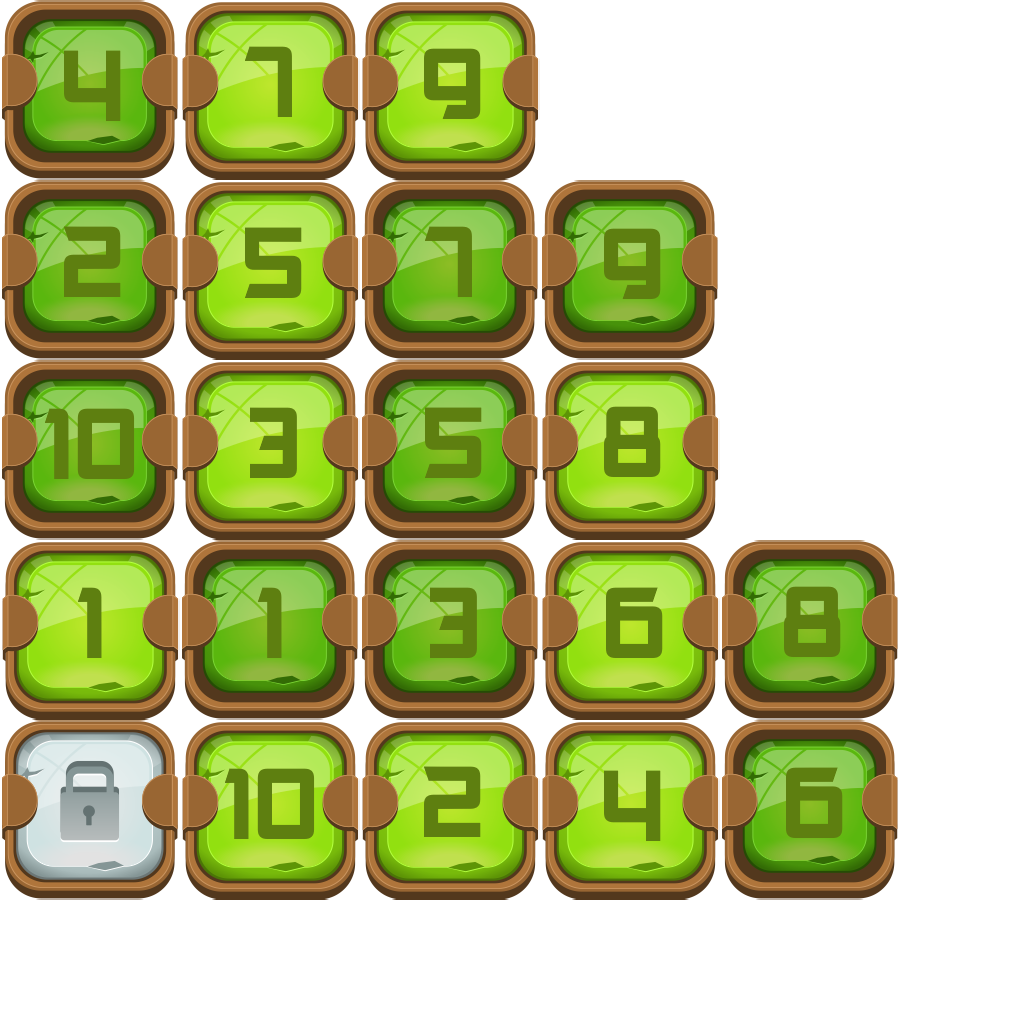
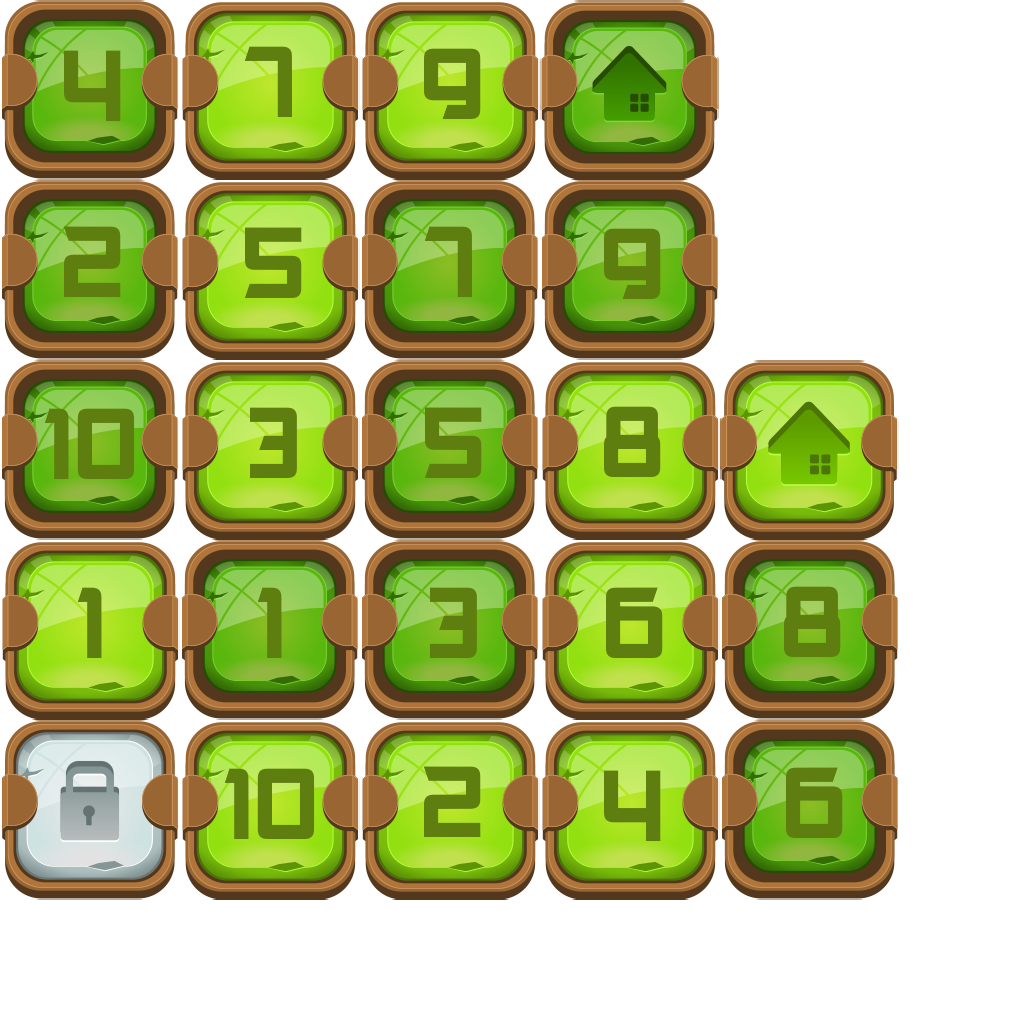
beta version of levels options

Changed region(s): [[0.5, 0.0, 0.7188, 0.1875], [0.6875, 0.3438, 0.875, 0.5312]]

diff --git a/BlockBoy/core/src/com/lpoo/blockboy/gui/LevelScreen.java b/BlockBoy/core/src/com/lpoo/blockboy/gui/LevelScreen.java
@@ -17,7 +17,7 @@ import com.badlogic.gdx.utils.viewport.Viewport;
 import com.lpoo.blockboy.BlockBoy;
 
 /**
- * Created by Manuel Gomes on 12/05/2016.
+ * Created by José Oliveira on 12/05/2016.
  */
 public class LevelScreen implements Screen {
 
@@ -41,7 +41,7 @@ public class LevelScreen implements Screen {
     private ImageButton lvl8Btn;
     private ImageButton lvl9Btn;
     private ImageButton lvl10Btn;
-    private ImageButton lvlLockedBtn;
+    private ImageButton homeBtn;
 
     private Texture menu_bg;
 
@@ -53,7 +53,7 @@ public class LevelScreen implements Screen {
         this.viewport = new FitViewport(BlockBoy.VWIDTH, BlockBoy.VHEIGHT, new OrthographicCamera());
         initStage(game.batch);
 
-        menu_bg = new Texture("menu/menu_bg.png");
+        menu_bg = new Texture("menu/levels_bg.png");
     }
 
     public void checkInput(float delta){
@@ -132,8 +132,7 @@ public class LevelScreen implements Screen {
         lvl9Btn = !lockLevels[8] ? new ImageButton(skin.getDrawable("lvl9"),skin.getDrawable("lvl9p")) :  new ImageButton(skin.getDrawable("lockedLvl"));
         lvl10Btn = !lockLevels[9] ? new ImageButton(skin.getDrawable("lvl10"),skin.getDrawable("lvl10p")) :  new ImageButton(skin.getDrawable("lockedLvl"));
 
-        lvlLockedBtn = new ImageButton(skin.getDrawable("lockedLvl"));
-
+        homeBtn = new ImageButton(skin.getDrawable("homeBtn"),skin.getDrawable("homePressed"));
 
         lvl1Btn.setSize(3*lvl1Btn.getWidth()/7,3*lvl1Btn.getHeight()/7);
         lvl1Btn.setPosition(3*BlockBoy.VWIDTH/14-lvl1Btn.getWidth()/2,6*BlockBoy.VHEIGHT/10-lvl1Btn.getHeight()/2);
@@ -145,7 +144,6 @@ public class LevelScreen implements Screen {
         lvl4Btn.setPosition(9*BlockBoy.VWIDTH/14-lvl4Btn.getWidth()/2,6*BlockBoy.VHEIGHT/10-lvl4Btn.getHeight()/2);
         lvl5Btn.setSize(3*lvl5Btn.getWidth()/7,3*lvl5Btn.getHeight()/7);
         lvl5Btn.setPosition(11*BlockBoy.VWIDTH/14-lvl5Btn.getWidth()/2,6*BlockBoy.VHEIGHT/10-lvl5Btn.getHeight()/2);
-
         lvl6Btn.setSize(3*lvl6Btn.getWidth()/7,3*lvl6Btn.getHeight()/7);
         lvl6Btn.setPosition(3*BlockBoy.VWIDTH/14-lvl6Btn.getWidth()/2,4*BlockBoy.VHEIGHT/10-lvl6Btn.getHeight()/2);
         lvl7Btn.setSize(3*lvl7Btn.getWidth()/7,3*lvl7Btn.getHeight()/7);
@@ -156,6 +154,8 @@ public class LevelScreen implements Screen {
         lvl9Btn.setPosition(9*BlockBoy.VWIDTH/14-lvl9Btn.getWidth()/2,4*BlockBoy.VHEIGHT/10-lvl9Btn.getHeight()/2);
         lvl10Btn.setSize(3*lvl10Btn.getWidth()/7,3*lvl10Btn.getHeight()/7);
         lvl10Btn.setPosition(11*BlockBoy.VWIDTH/14-lvl10Btn.getWidth()/2,4*BlockBoy.VHEIGHT/10-lvl10Btn.getHeight()/2);
+        homeBtn.setSize(homeBtn.getWidth()/4,homeBtn.getHeight()/4);
+        homeBtn.setPosition(10,BlockBoy.VHEIGHT - homeBtn.getHeight() - 10);
 
         lvl1Btn.addListener(new InputListener(){
 
@@ -326,6 +326,17 @@ public class LevelScreen implements Screen {
                 }
             }
         });
+        homeBtn.addListener(new InputListener(){
+
+            public boolean touchDown(InputEvent event, float x, float y, int pointer, int button){
+               return true;
+            }
+
+            public void touchUp(InputEvent event, float x, float y, int pointer, int button){
+                game.setScreen(new MainMenuScreen(game));
+                dispose();
+            }
+        });
 
         stage.addActor(lvl1Btn);
         stage.addActor(lvl2Btn);
@@ -337,7 +348,7 @@ public class LevelScreen implements Screen {
         stage.addActor(lvl8Btn);
         stage.addActor(lvl9Btn);
         stage.addActor(lvl10Btn);
-        //stage.addActor(lvlLockedBtn);
+        stage.addActor(homeBtn);
 
         Gdx.input.setInputProcessor(stage);
     }

diff --git a/BlockBoy/core/src/com/lpoo/blockboy/gui/MainMenuScreen.java b/BlockBoy/core/src/com/lpoo/blockboy/gui/MainMenuScreen.java
@@ -141,8 +141,8 @@ public class MainMenuScreen implements Screen {
             }
 
             public void touchUp(InputEvent event, float x, float y, int pointer, int button){
-                /*Bullet bullet = new Bullet((int) hero.getPositionX() + 30, (int) hero.getPositionY() + 17, "H");
-                hero_bullets.add(bullet);*/
+                dispose();
+                Gdx.app.exit();
             }
         });
 
